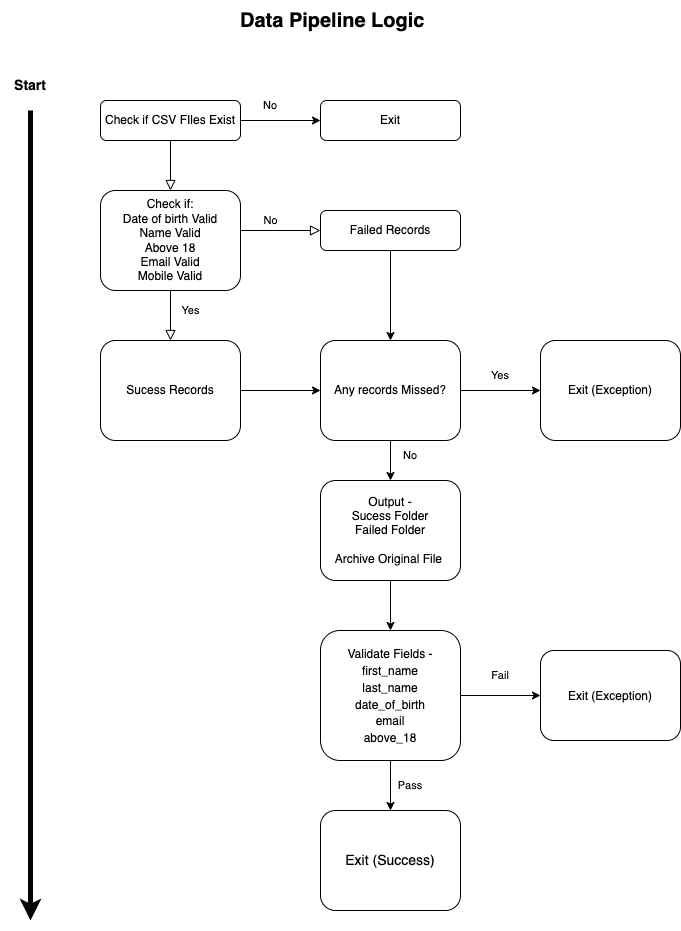
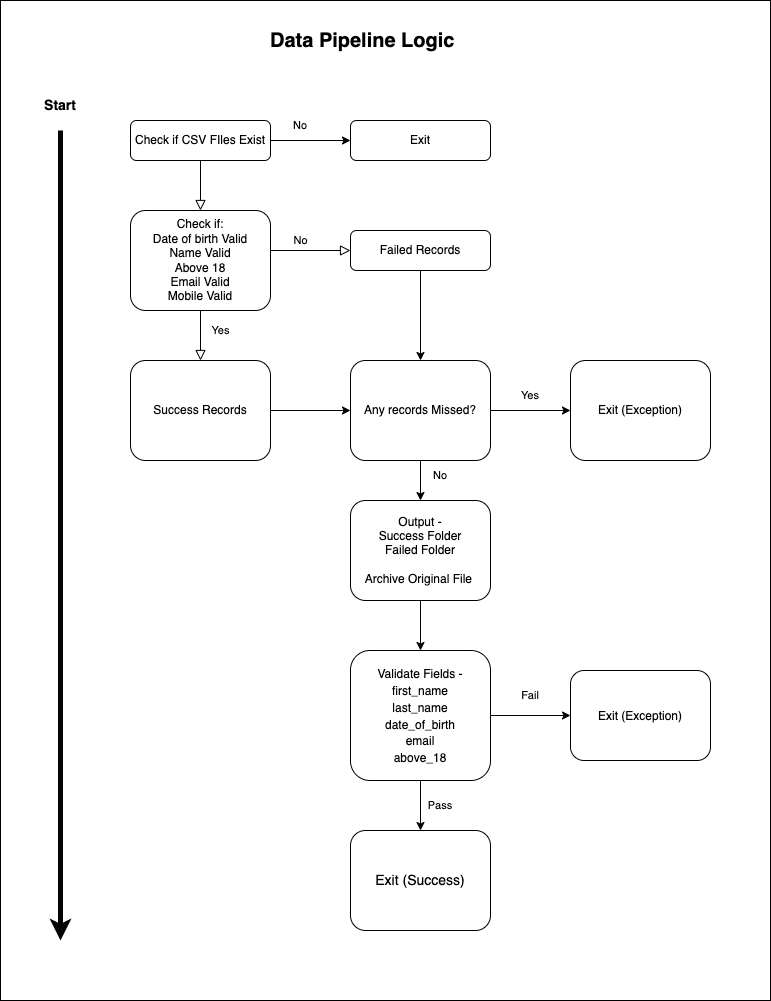
Added explanation for data pipeline logic and modified spelling errors

diff --git a/Section 1 - Data Pipelines/README.md b/Section 1 - Data Pipelines/README.md
@@ -24,6 +24,8 @@ Diagram to visualize Pipeline Logic.
 
 ![Diagram to visualize Pipeline Logic](section-1-data-pipeline.png?raw=true "Data Pipeline Logic")
 
+The pipeline starts off by checking if there are CSV files in the storage/filepath. If there are indeed files, the pipeline checks if the date_of_birth, name, email, and mobile_no are valid. If all of them are valid and the user is over 18 years old, the pipeline splits these records into success records, and the remaining as failed records. There are also formating and cleaning done to all the columns. The pipeline then does a validity check if any records are missing after processing. If it passes, the pipeline outputs success records into the success folder and failed records into the failed folder, while also moving the original CSV files into the archive folder. The pipeline then performs several data validation checks on the success records to ensure the fields are valid.
+
 Diagram to visualize pipeline on Airflow
 
 ![Diagram to visualize pipeline on Airflow](section-1-data-pipeline-airflow.png?raw=true "Diagram to visualize pipeline on Airflow")
